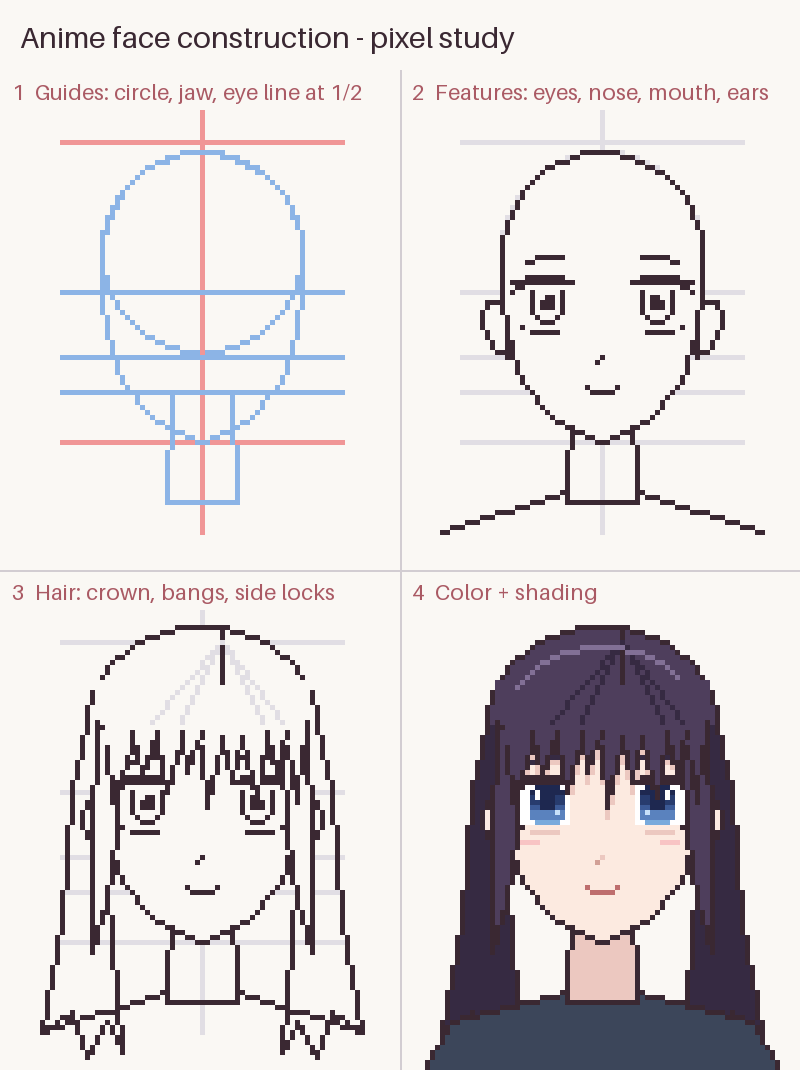
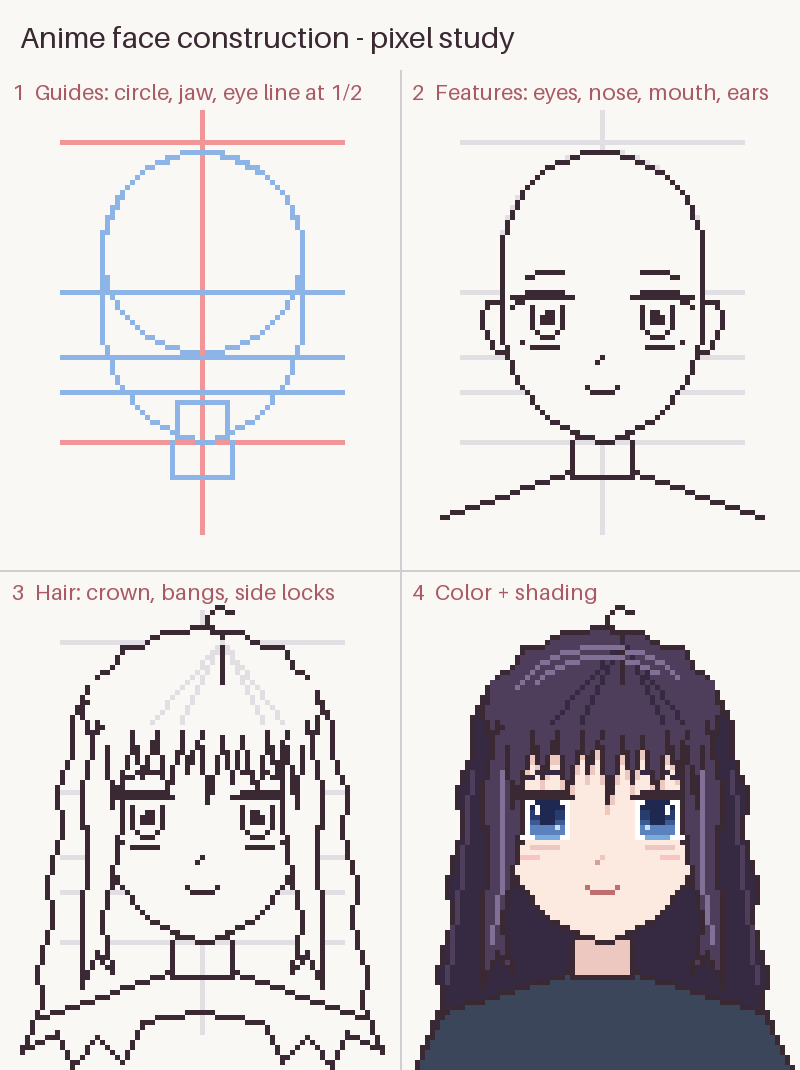
Face study: lower eyes, shorter neck, full fluffy long hair, softer jaw
Claude-Session: https://claude.ai/code/session_0155yoUibrhMAmrpcv8V9b9L

diff --git a/draw_face_study.py b/draw_face_study.py
@@ -36,20 +36,22 @@ def arc(cx, cy, r, a0, a1, n=24):
             for a in [a0 + (a1 - a0) * k / n for k in range(n + 1)]]
 
 
-FACE = arc(CX, 36, 20, 180, 360) + [(60, 44), (59, 52), (56, 62), (49, 70), (40, 74),
-                                    (31, 70), (24, 62), (21, 52), (20, 44)]
+FACE = arc(CX, 36, 20, 180, 360) + [(60, 44), (60, 53), (57, 62), (51, 69), (44, 73), (40, 74),
+                                    (36, 73), (29, 69), (23, 62), (20, 53), (20, 44)]
 EAR_L = [(21, 45), (17, 46), (16, 50), (18, 55), (21, 57)]
 EAR_R = [(2 * CX - x, y) for x, y in EAR_L]
-NECK = [(34, 64), (46, 64), (47, 86), (33, 86)]
+NECK = [(35, 66), (45, 66), (46, 81), (34, 81)]
 
-BACK_HAIR = [(18, 26), (14, 44), (12, 70), (8, 92), (14, 88), (17, 97), (21, 90), (24, 96), (22, 74), (20, 50),
-             (60, 50), (58, 74), (56, 96), (59, 90), (63, 97), (66, 88), (72, 92), (68, 70), (66, 44), (62, 26)]
+BACK_HAIR = [(18, 22), (14, 30), (14, 36), (11, 44), (12, 52), (9, 62), (10, 70), (7, 80),
+             (8, 86), (4, 96), (11, 92), (14, 99), (19, 93), (24, 98), (28, 90), (40, 88),
+             (52, 90), (56, 98), (61, 93), (66, 99), (69, 92), (76, 96), (72, 86), (73, 80),
+             (70, 70), (71, 62), (68, 52), (69, 44), (66, 36), (66, 30), (62, 22)]
 CROWN = (17, 11, 63, 50)
 # bangs clumps from a part slightly right of centre: (root_l, root_r, tip_x, tip_y)
-BANGS = [(20, 27, 22, 46), (25, 32, 28, 41), (30, 37, 33, 44), (35, 41, 37, 40),
-         (39, 45, 41, 47), (43, 49, 46, 42), (47, 54, 51, 45), (52, 58, 55, 40),
-         (56, 61, 59, 46)]
-SIDE_L = [(19, 30), (24, 36), (23, 52), (21, 66), (18, 76), (18, 54)]
+BANGS = [(20, 27, 22, 47), (25, 32, 28, 41), (30, 37, 33, 44), (35, 41, 37, 40),
+         (39, 45, 41, 46), (43, 49, 46, 42), (47, 54, 51, 44), (52, 58, 55, 40),
+         (56, 61, 59, 47)]
+SIDE_L = [(19, 30), (24, 36), (24, 50), (22, 62), (20, 70), (22, 80), (19, 76), (16, 83), (16, 70), (17, 56), (16, 44)]
 SIDE_R = [(2 * CX - x, y) for x, y in SIDE_L]
 
 
@@ -67,7 +69,7 @@ def eye(d, x0, oy, flip, color):
     """12px wide anime eye. x0 = outer corner of the left eye (mirrored when flip)."""
     xs = (lambda i: x0 + 11 - i) if flip else (lambda i: x0 + i)
     p = lambda i, y, c: d.point((xs(i), oy + y), fill=c)
-    top = EYE_Y - 2
+    top = EYE_Y + 1
     if color:
         for y in range(top + 1, top + 9):
             for i in range(1, 11):
@@ -145,15 +147,15 @@ def panel(img, ox, oy, step):
         return
     if step == 4:
         d.polygon(off(BACK_HAIR, ox, oy), fill=HAIR_SHADE, outline=LINE)
-        d.polygon([(ox + 4, oy + 100), (ox + 10, oy + 90), (ox + 33, oy + 84), (ox + 47, oy + 84),
-                   (ox + 70, oy + 90), (ox + 76, oy + 100)], fill=CLOTH, outline=LINE)
+        d.polygon([(ox + 2, oy + 100), (ox + 8, oy + 88), (ox + 34, oy + 80), (ox + 46, oy + 80),
+                   (ox + 72, oy + 88), (ox + 78, oy + 100)], fill=CLOTH, outline=LINE)
     else:
         guides(d, ox, oy, faint=True)
     fill = SKIN if step == 4 else BG
     d.polygon(off(NECK, ox, oy), fill=SKIN_SHADE if step == 4 else None, outline=LINE)
     if step < 4:
-        d.line((ox + 33, oy + 84, ox + 8, oy + 92), fill=LINE)
-        d.line((ox + 47, oy + 84, ox + 72, oy + 92), fill=LINE)
+        d.line((ox + 34, oy + 80, ox + 8, oy + 89), fill=LINE)
+        d.line((ox + 46, oy + 80, ox + 72, oy + 89), fill=LINE)
     d.polygon(off(EAR_L, ox, oy), fill=fill, outline=LINE)
     d.polygon(off(EAR_R, ox, oy), fill=fill, outline=LINE)
     d.polygon(off(FACE, ox, oy), fill=fill, outline=LINE)
@@ -162,7 +164,7 @@ def panel(img, ox, oy, step):
         for c in BANGS:  # shadow of bangs on forehead
             d.polygon([(x, y + 2) for x, y in clump(*c, ox, oy)], fill=SKIN_SHADE)
         for x in (26, 54):
-            d.line((ox + x - 2, oy + 54, ox + x + 1, oy + 54), fill=(248, 196, 196))  # blush
+            d.line((ox + x - 2, oy + 57, ox + x + 1, oy + 57), fill=(248, 196, 196))  # blush
     features(d, ox, oy, color=(step == 4))
     if step >= 3:
         hf = HAIR if step == 4 else BG
@@ -172,9 +174,16 @@ def panel(img, ox, oy, step):
             d.polygon(off(EAR_L, ox, oy), fill=BG, outline=LINE)
             d.polygon(off(EAR_R, ox, oy), fill=BG, outline=LINE)
             features(d, ox, oy, color=False)
-        d.chord((ox + CROWN[0], oy + CROWN[1], ox + CROWN[2], oy + CROWN[3]), 180, 360, fill=hf)
-        d.arc((ox + CROWN[0], oy + CROWN[1], ox + CROWN[2], oy + CROWN[3]), 180, 360, fill=LINE)
-        d.rectangle((ox + 19, oy + 22, ox + 61, oy + 30), fill=hf)
+        crown = [(ox + 17, oy + 32)]
+        for k in range(19):
+            a = math.radians(180 + k * 10)
+            r = 1.0 + (0.07 if k % 2 else 0.0)
+            crown.append((round(ox + 40 + 23 * r * math.cos(a)), round(oy + 31 + 19 * r * math.sin(a))))
+        crown.append((ox + 63, oy + 32))
+        d.polygon(crown, fill=hf, outline=LINE)
+        # loose flyaway strands on top
+        d.line((ox + 42, oy + 12, ox + 41, oy + 9, ox + 43, oy + 7, ox + 46, oy + 8), fill=LINE)
+        d.rectangle((ox + 18, oy + 22, ox + 62, oy + 31), fill=hf)
         d.polygon(off(SIDE_L, ox, oy), fill=hf, outline=LINE)
         d.polygon(off(SIDE_R, ox, oy), fill=hf, outline=LINE)
         for c in BANGS:
@@ -188,6 +197,12 @@ def panel(img, ox, oy, step):
             d.line((ox + 44, oy + 14, ox + x, oy + 30), fill=HAIR_SHADE if step == 4 else GUIDE_FAINT)
         if step == 4:
             d.arc((ox + 22, oy + 15, ox + 58, oy + 40), 200, 330, fill=HAIR_HI)
+            d.arc((ox + 24, oy + 17, ox + 56, oy + 40), 215, 315, fill=HAIR_HI)
+            for pts in ([(14, 40), (12, 60), (9, 82)], [(66, 40), (68, 60), (71, 82)],
+                        [(18, 56), (17, 74)], [(62, 56), (63, 74)]):
+                d.line([(ox + x, oy + y) for x, y in pts], fill=HAIR)
+            for pts in ([(20, 40), (20, 62), (18, 74)], [(60, 40), (60, 62), (62, 74)]):
+                d.line([(ox + x, oy + y) for x, y in pts], fill=HAIR_HI)
 
 
 def main():
